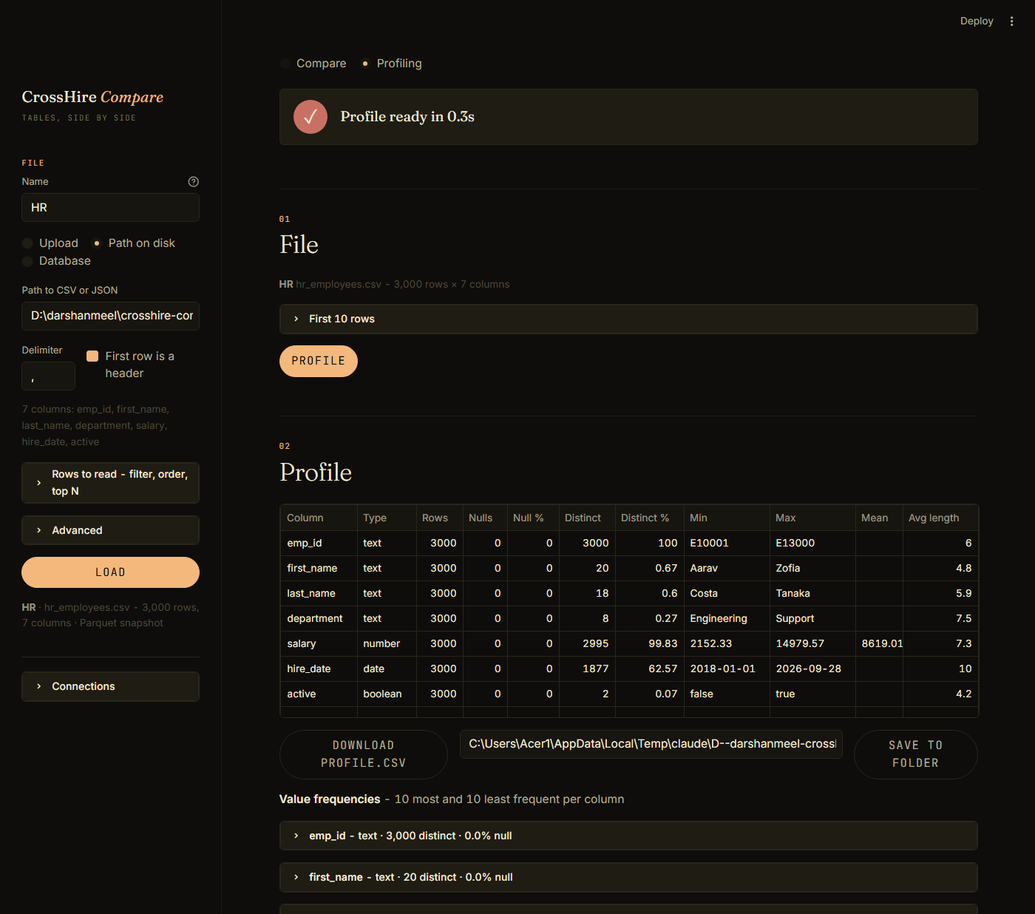
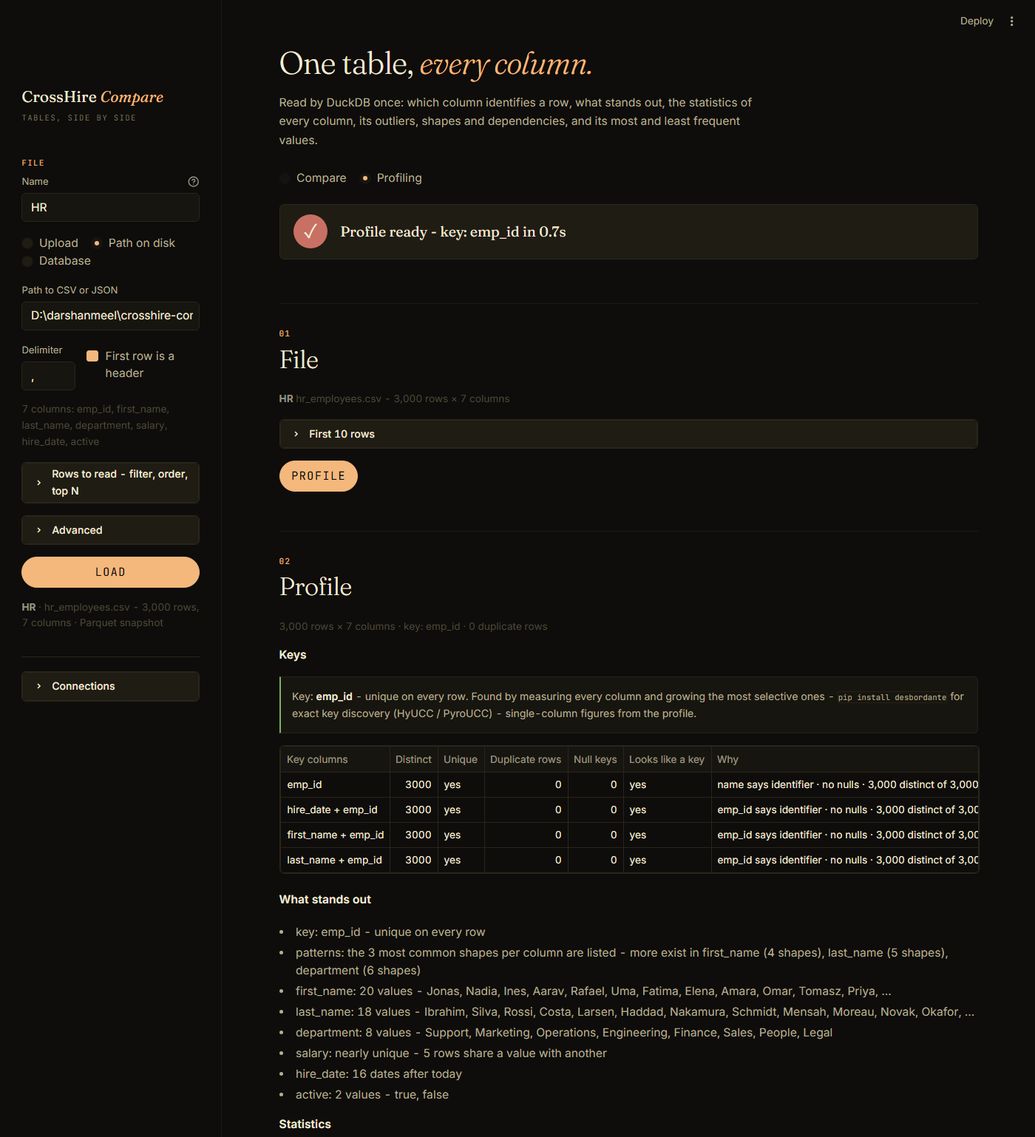
Profiling follow-ups: new screenshot, README.html in step, hero lede, the pair warning from MAX_KEY_COLS, a dead test guard
docs/app-profiling.png shows the page as it now is - the done disc naming the key, the
headline, Keys and What stands out. README.html's Profiling section carries what README.md
says, plus the pair profile's columns, the file tree and the test count. The Profiling
page's lede names what the page now does. The Compare page's key warning is built from
keys.MAX_KEY_COLS like the Profiling page's, and test_reasons_and_overlap asserts the
measure-column wording on a pair where it actually occurs.

diff --git a/README.html b/README.html
@@ -269,7 +269,7 @@ COMPARE_CONN_SAMPLE=duckdb:///C:/data/sample.duckdb</code></pre>
   <div class="sec-head"><div class="sec-num">07</div><div><h2 class="sec-h">Rows.</h2><div class="sec-sub">filters on the common names · profile on demand</div></div></div>
   <div class="body">
     <p><strong>Filters</strong> apply to both sides, or one, after types: <code>=</code> <code>!=</code> <code>&gt;</code> <code>&gt;=</code> <code>&lt;</code> <code>&lt;=</code> <code>in</code> <code>not in</code> <code>between</code> <code>like</code> <code>is null</code> <code>is not null</code>, each with a Type of <code>auto</code>, <code>string</code>, <code>number</code> or <code>date</code>. Values are matched exactly - the <em>Ignore case</em> switch does not apply to filters - but they are spelled the way the column is before the engine sees them: on a boolean column <code>True</code>, <code>t</code>, <code>yes</code>, <code>y</code> and <code>1</code> mean <code>true</code> (and their opposites <code>false</code>), in lists and ranges too; on a date or timestamp column a value becomes the ISO text the column holds, read with the format the column's own <em>to date</em> or <em>to timestamp</em> step names on the side the filter applies to, else in any of the usual spellings (<code>05/01/2024</code> is <code>2024-05-01</code> on a column read with <code>%m/%d/%Y</code> and <code>2024-01-05</code> without a format; a value the two sides' formats read as different days is refused and asked for in ISO; the time of day is kept on a timestamp column); on a number column the value compares as a number - <code>10 &gt; 9</code>, also when the column is the key and never compared, or when rows pair by hashing - and a value that is not a date, or not a number, is refused in a sentence - <em>filter on 'hire_date': 'not-a-date' is not a date</em> - shown once above the result, whether or not Compare was pressed. <code>between</code> takes two values, comma separated. To shrink a big file before it is even read, use <em>Rows to read</em> under that file in the sidebar instead.</p>
-    <p><strong>Profile both files</strong> runs only when pressed: per column per side, null %, distinct count, min, max, mean, average length - side by side with the gap - and the 10 most and 10 least frequent values, on the same typed values the comparison uses. It runs in the red disc (<em>Profiling…</em>, then <em>Profile ready in 1.2s</em>) and lands in the Log. A profile also feeds <strong>Suggest keys</strong> and Auto, goes into the run folder as <code>profile.csv</code>, and is dropped when the column table or the reads change; the one Auto takes with <em>Profile both sides first</em> shows here too, without the press. To profile one table with no second side, use the Profiling page - section 12.</p>
+    <p><strong>Profile both files</strong> runs only when pressed: per column, a <em>Both sides</em> sheet with the null %, distinct count, min and max of each file and the null % gap, then each file's own statistics table - the same columns the Profiling page's Statistics has (section 12) - and the 10 most and 10 least frequent values, on the same typed values the comparison uses. It runs in the red disc (<em>Profiling…</em>, then <em>Profile ready in 1.2s</em>) and lands in the Log. A profile also feeds <strong>Suggest keys</strong> and Auto, goes into the run folder as <code>profile.csv</code>, and is dropped when the column table or the reads change; the one Auto takes with <em>Profile both sides first</em> shows here too, without the press. To profile one table with no second side, use the Profiling page - section 12.</p>
   </div>
 </section>
 
@@ -320,7 +320,7 @@ COMPARE_CONN_SAMPLE=duckdb:///C:/data/sample.duckdb</code></pre>
 <b>HR_compare_Payroll__right_only.csv</b>   <i>· rows found only in Right, the same way</i><br>
 <b>HR_compare_Payroll__paired.csv</b>       <i>· every paired row on one line: the key columns, then a_&lt;column&gt;, b_&lt;column&gt; for each compared column, in file order - a header only in hash mode</i><br>
 <b>HR_compare_Payroll__columns.csv</b>      <i>· the column sheet: column, name_a, name_b, role, read_as, matched_by, matched, mismatched, match_pct, values_only_a, values_only_b - matched_by is how the pair was made (name, similar name, guess - check, data, you, file), blank on a one-sided column</i><br>
-<b>HR_compare_Payroll__profile.csv</b>      <i>· when a profile ran: column, side, rows, nulls, null_pct, distinct, distinct_pct, min, max, mean, avg_length</i><br>
+<b>HR_compare_Payroll__profile.csv</b>      <i>· when a profile ran: column, side, rows, nulls, null_pct, distinct, distinct_pct (of the filled rows), distinct_pct_rows (of all rows), top_value, top_pct, min, max, mean, avg_length, min_length, max_length</i><br>
 <b>HR_compare_Payroll__summary.csv</b>      <i>· one row: schema_version, run_id, started_at, pair, left, right, mode, keys, rows_left_read, rows_right_read, rows_left, rows_right, matched_rows, only_left, only_right, diff_rows, cell_diffs, duplicate_keys_left, duplicate_keys_right, status, tone, seconds, error - lists joined with |</i><br>
 <b>HR_compare_Payroll__summary.json</b>     <i>· the whole run for a script: app, engine, duckdb_version, run_id, started_at, seconds, pair, sources (per side: name, kind, database, connection name, origin, path, sql, fetched_at, cap, rows, cut, columns - never a URI or a password), settings (mode, keys, compare_columns, the specs with their steps and case, column_rules, filters, trim, tolerance, null_tokens...), result, verdict, notes (Auto's decisions) and files (every file above with its format, rows and bytes)</i></div>
     <p>In key and position mode every file is present after every run - an empty table is written with its header - so a script can rely on the set; <code>summary.csv</code> and <code>summary.json</code> carry <code>schema_version</code> 1. Read <code>columns.csv</code> by header, not by position: <code>matched_by</code> was inserted after <code>read_as</code>. In hash mode the engine does not run, so there is no <code>cell_diffs</code> file and no engine report - rows either match whole or land in <code>left_only</code> / <code>right_only</code>, which carry every column, and <code>paired.csv</code> is a header only. The engine's CSVs are complete; only the tables on screen and in the report are capped by <em>Rows to display</em>.</p>
@@ -349,15 +349,72 @@ COMPARE_CONN_SAMPLE=duckdb:///C:/data/sample.duckdb</code></pre>
 </section>
 
 <section class="sec" id="profiling">
-  <div class="sec-head"><div class="sec-num">12</div><div><h2 class="sec-h">Profiling: <em>one table.</em></h2><div class="sec-sub">the second page · one source · statistics and value frequencies per column</div></div></div>
+  <div class="sec-head"><div class="sec-num">12</div><div><h2 class="sec-h">Profiling: <em>one table.</em></h2><div class="sec-sub">the second page · one source · keys, what stands out, statistics, outliers, patterns, dependencies, frequencies</div></div></div>
   <div class="body">
-    <p>The <strong>Compare</strong> | <strong>Profiling</strong> switch under the headline picks the page. Profiling takes one table on its own - the headline reads <em>One table, every column.</em> - and measures it the way the Profile section under Rows measures a pair. The sidebar holds a single <strong>File</strong> panel, the same panel File A has: a <strong>Name</strong> (<em>Table</em> by default - it names the profile file, and a database table left at the default takes its connection's name), the <strong>Upload</strong> / <strong>Path on disk</strong> / <strong>Database</strong> radio, the delimiter and header tick, <em>Rows to read</em>, <em>Advanced</em>, <strong>Load</strong>; for a database the same Connection, Table or SQL query, cap and <strong>Fetch</strong>, with the Connections manager under it. Load, then press <strong>Profile</strong>.</p>
-    <p>What the values look like decides the types - there is no column table here to take a suggestion in - so a text column of <code>12,686.95</code> profiles as a number, <code>06-Nov-2019</code> as a date with its format, <code>Y</code>/<code>N</code> as a boolean; a column DuckDB typed keeps that type. The run shows in the red disc under the switch (<em>Profiling…</em>, then <em>Profile ready in 0.3s</em>) and lands in the Log like any other. Then:</p>
-    <div class="grid">
-      <div class="cell"><div class="k">File</div><div class="v">The name, the file, rows × columns and the cut, with <em>First 10 rows</em> folded under it.</div></div>
-      <div class="cell"><div class="k">Profile</div><div class="v">The statistics table, one row per column: Column, Type, Rows, Nulls, Null %, Distinct, Distinct %, Min, Max, Mean, Avg length. <strong>Download profile.csv</strong> hands it out through the browser as <code>&lt;Table&gt;__profile.csv</code>; <strong>Save to folder</strong> writes it to the folder in the box beside it - <code>&lt;COMPARE_OUT_DIR&gt;/&lt;Table&gt;__&lt;run_id&gt;</code> when the variable is set (and then the save must stay under it), else a folder of that name next to the file, or under your Downloads folder - the same rule as the Compare page's saves.</div></div>
-      <div class="cell"><div class="k">Value frequencies</div><div class="v">One fold per column, labelled <em>emp_id - text · 3,000 distinct · 0.0% null</em>, with the 10 most and the 10 least frequent values side by side.</div></div>
-    </div>
+    <p>The <strong>Compare</strong> | <strong>Profiling</strong> switch under the headline picks the page. Profiling takes one table on its own - the headline reads <em>One table, every column.</em> - and says what a person opening an unfamiliar table wants to know first: which column identifies a row, what stands out, the statistics of every column, where the numbers and dates run wild, what shape the text takes, which columns determine which, and the most and least frequent values. The sidebar holds a single <strong>File</strong> panel, the same panel File A has: a <strong>Name</strong> (<em>Table</em> by default - it names the saved files, and a database table left at the default takes its connection's name), the <strong>Upload</strong> / <strong>Path on disk</strong> / <strong>Database</strong> radio, the delimiter and header tick, <em>Rows to read</em>, <em>Advanced</em>, <strong>Load</strong>; for a database the same Connection, Table or SQL query, cap and <strong>Fetch</strong>, with the Connections manager under it. Load, then press <strong>Profile</strong>.</p>
+    <p>What the values look like decides the types - there is no column table here to take a suggestion in - so a text column of <code>12,686.95</code> profiles as a number, <code>06-Nov-2019</code> as a date with its format, <code>Y</code>/<code>N</code> as a boolean; a column DuckDB typed keeps that type. The table is read into DuckDB once and every measure below runs on that one read; only the checks for stray spaces, case variants and leading zeros go back to the file, because they need the value as written. The run shows in the red disc under the switch - <em>Profiling…</em>, then <em>Looking for keys…</em> and <em>What stands out…</em> on the way, ending on <em>Profile ready - key: emp_id in 0.4s</em> (or <em>Profile ready - no key in 0.4s</em>) - and lands in the Log as two entries: the run with its steps, and <em>Profile notes</em> - <em>8 things stand out</em> - with one line per note, the way Auto's decisions are logged. The page then reads, top to bottom: <strong>File</strong>, <strong>Profile</strong> with its headline, <strong>Keys</strong>, <strong>What stands out</strong>, <strong>Statistics</strong> with the download and save row, the <strong>Outliers</strong>, <strong>Patterns</strong> and <strong>Dependencies</strong> folds, then <strong>Value frequencies</strong>.</p>
+    <p><strong>File</strong> - the name, the file, rows × columns and the cut, with <em>First 10 rows</em> folded under it.</p>
+    <p><strong>Profile</strong> - one line under the heading: <code>3,000 rows × 7 columns · key: emp_id · 0 duplicate rows</code>. The rows and columns, the key (or <em>no key up to 4 columns</em>), the exact duplicate rows - always said, even at 0 - and then only what is there: <em>1 empty column</em>, <em>1 constant column</em>, <em>2 columns with outliers</em>.</p>
+    <p><strong>Keys</strong> - a green line when the best candidate is unique on every row: <em>Key: emp_id - unique on every row. Found by measuring every column and growing the most selective ones - <code>pip install desbordante</code> for exact key discovery (HyUCC / PyroUCC) - single-column figures from the profile.</em> Otherwise a warning, <em>Nothing up to 4 columns is unique - the closest are below.</em>, with the same note after it. The candidate table sits under it. This is the Compare page's <strong>Suggest keys</strong> on one table: every column unique by itself, then combinations of up to four columns grown from the most selective ones - with Desbordante when it is installed (HyUCC on the first 200,000 rows, verified on every row; PyroUCC's almost-unique combinations when nothing is exact). The distinct and null counts of the single columns come from the statistics just measured, so nothing is counted twice - that is what the note's last words say - and a column with one value is never a candidate. There is no other side, so no Overlap %; candidates rank by unique first, then whether they only add columns to a key that already works, then how much the names look like a key, then fewer columns. The columns:</p>
+    <table>
+      <tr><th>Column</th><th>What it is</th></tr>
+      <tr><td>Key columns</td><td>The column, or the combination joined with <code>+</code>.</td></tr>
+      <tr><td>Distinct</td><td>The distinct values of the combination among the rows that have a full key.</td></tr>
+      <tr><td>Unique</td><td><code>yes</code> when Duplicate rows and Null keys are both 0.</td></tr>
+      <tr><td>Duplicate rows</td><td>Rows minus null keys minus distinct: the rows that share their key with another.</td></tr>
+      <tr><td>Null keys</td><td>Rows where any key column is null; they identify nothing.</td></tr>
+      <tr><td>Looks like a key</td><td><code>yes</code> when the names and detected types read as identifiers, <code>measure columns</code> when one of them is a measure - an amount, a rate, a decimal.</td></tr>
+      <tr><td>Why</td><td>The reasons in one line, as on the Compare page but naming no side. <code>emp_id</code>: <em>name says identifier · no nulls · 3,000 distinct of 3,000 · unique by itself</em>. <code>hire_date + emp_id</code>, ranked under it: <em>emp_id says identifier · no nulls · 3,000 distinct of 3,000 · adds nothing - emp_id is already unique · grown from the most selective column</em>. A combination a null spoils - <code>manager_id + id</code> on the directory JSON: <em>manager_id, id say identifier · 277 nulls · 2,713 distinct of 2,990 · adds nothing - id is already unique · grown from the most selective column</em> - the 277 rows with no manager_id have no key, so they are neither distinct nor duplicates. A column no other column improves on stands alone: <em>on its own - adding a column told no more rows apart</em>.</td></tr>
+    </table>
+    <p><strong>What stands out</strong> - one line per thing, as a list: the table-level lines first, then column by column in the table's order. When there is nothing, <em>Nothing stands out - no nulls, no duplicates, no constant columns, no outliers.</em> On <code>hr_employees.csv</code>:</p>
+<pre><code>key: emp_id - unique on every row
+patterns: the 3 most common shapes per column are listed - more exist in first_name (4 shapes), last_name (5 shapes), department (6 shapes)
+first_name: 20 values - Jonas, Nadia, Ines, Aarav, Rafael, Uma, Fatima, Elena, Amara, Omar, Tomasz, Priya, …
+last_name: 18 values - Ibrahim, Silva, Rossi, Costa, Larsen, Haddad, Nakamura, Schmidt, Mensah, Moreau, Novak, Okafor, …
+department: 8 values - Support, Marketing, Operations, Engineering, Finance, Sales, People, Legal
+salary: nearly unique - 5 rows share a value with another
+hire_date: 16 dates after today
+active: 2 values - true, false</code></pre>
+    <p>(The sample's hire dates run to 2026-09-28, so how many fall after today depends on the day you run it.) Every kind of line, in the order they come - a line marked with a sample file is that file's own, the others show the form:</p>
+    <table>
+      <tr><th>Line</th><th>When it appears</th></tr>
+      <tr><td style="white-space:normal"><code>12 exact duplicate rows - the same values in every column</code></td><td>Rows that repeat another one in every column, a null equal to a null.</td></tr>
+      <tr><td style="white-space:normal"><code>key: emp_id - unique on every row</code> (HR), or <code>no single column or combination up to 4 is unique - closest: first_name + last_name (2,998 distinct of 3,000)</code></td><td>The best candidate from Keys, measured again on the table.</td></tr>
+      <tr><td style="white-space:normal"><code>Dept → CostCenter: every Dept has one CostCenter</code> (Payroll), <code>cust_id ↔ cust_email: one-to-one</code></td><td>One line per row of the Dependencies fold, the first 10, then <code>… and n more in Dependencies</code>.</td></tr>
+      <tr><td style="white-space:normal"><code>tenure_years ~ leave_days: correlated, r = 0.93</code></td><td>One line per correlated pair, the first 5, then <code>… and n more</code>.</td></tr>
+      <tr><td style="white-space:normal"><code>patterns: the 3 most common shapes per column are listed - more exist in first_name (4 shapes), …</code> (HR)</td><td>A text column has more shapes than the Patterns fold shows. A line of the same kind says when the dependency search or the correlations were capped.</td></tr>
+      <tr><td style="white-space:normal"><code>notes: empty - null on every row</code></td><td>Null on every row; nothing else is said about the column.</td></tr>
+      <tr><td style="white-space:normal"><code>company: constant - one value on every row (ACME)</code></td><td>One distinct value.</td></tr>
+      <tr><td style="white-space:normal"><code>manager_id: null on 9.3% of rows</code> (Directory)</td><td>Null on 5% of rows or more - or on any row at all when the name says identifier: <code>id</code>, <code>key</code>, <code>code</code>, <code>ref</code>, <code>no</code>, <code>num</code>, <code>account</code> and the like.</td></tr>
+      <tr><td style="white-space:normal"><code>salary: nearly unique - 5 rows share a value with another</code> (HR)</td><td>The distinct values are 99% or more of the filled rows, but not all of them.</td></tr>
+      <tr><td style="white-space:normal"><code>manager_id: says identifier but 2,653 rows share a value</code> (Directory)</td><td>The name says identifier and the values do not: neither unique nor nearly so.</td></tr>
+      <tr><td style="white-space:normal"><code>department: 8 values - Support, Marketing, Operations, Engineering, Finance, Sales, People, Legal</code> (HR)</td><td>Between 2 and 20 distinct values, covering at most half the rows - a category. The values by count, the first 12, then <code>…</code>.</td></tr>
+      <tr><td style="white-space:normal"><code>status: active on 97.3% of rows</code></td><td>One value on 95% of rows or more, and it is not the only value.</td></tr>
+      <tr><td style="white-space:normal"><code>Salary: read as a number - 12,686.95 has thousands separators</code> (Payroll), <code>hire_date: read as a date - 06-Nov-2019 → %d-%b-%Y</code> (Directory), <code>IsActive: read as a boolean - Y/N</code> (Payroll)</td><td>What the <em>looks like</em> sniff decided for a text column, in its own words - what the column was read as.</td></tr>
+      <tr><td style="white-space:normal"><code>zip: reads as a number but 120 values have leading zeros - keep it as text</code></td><td>A column read as a number whose values in the file start with a zero - a code, not an amount.</td></tr>
+      <tr><td style="white-space:normal"><code>city: 5 values differ only in case - Paris / paris / PARIS</code></td><td>The same value in more than one case in the file; one example group of up to three spellings.</td></tr>
+      <tr><td style="white-space:normal"><code>dept: 123 values have leading or trailing spaces - trimmed before measuring</code> (Directory)</td><td>Values in the file with a space at either end; the tail is there when <em>Trim whitespace</em> is on.</td></tr>
+      <tr><td style="white-space:normal"><code>salary: 2 outliers - above 21,489.10 (1.5 × IQR) · highest 1,000,000</code></td><td>Values outside Tukey's fences (see Outliers below), with the fence and the extreme on each side that is crossed; a side nothing crosses is left out.</td></tr>
+      <tr><td style="white-space:normal"><code>salary: 3 negative values · 40 zeros</code></td><td>Either count above zero, on a number column.</td></tr>
+      <tr><td style="white-space:normal"><code>ratio: 2 values are NaN, infinite or beyond 1e150 - left out of the outliers</code>, <code>valid_to: 30 values are infinite - left out of the outliers</code></td><td>Values no percentile, standard deviation or correlation can hold - <code>NaN</code>, <code>inf</code>, a number so large its square overflows, a date written <code>infinity</code> - are values to the reader and nulls to the Outliers fold, and this line says how many.</td></tr>
+      <tr><td style="white-space:normal"><code>hire_date: 16 dates after today</code> (HR), <code>birth_date: 3 dates before 1900</code></td><td>Either count above zero, on a date or timestamp column.</td></tr>
+      <tr><td style="white-space:normal"><code>emp_id: 99.7% of values are A9999 - 3 are not (e1234, E12, 12E4)</code></td><td>One shape covers 90% or more of a text column's values but not all of them; up to three of the others, then <code>…</code> when there are more.</td></tr>
+    </table>
+    <p><strong>Statistics</strong> - the statistics table, one row per column: Column, Type, Rows, Nulls, Null %, Distinct, <strong>Distinct % of filled</strong> (distinct ÷ the non-null rows) and <strong>Distinct % of rows</strong> (distinct ÷ all rows - the two differ only where there are nulls: <code>manager_id</code> in the directory JSON is 2.21% of filled and 2.01% of rows), <strong>Top value</strong> and <strong>Top %</strong> (the most frequent value and its share of all rows, a null counting as a value and shown as <code>∅ null</code> - <code>department</code> has <code>Support</code> on 13.73%), Min, Max, Mean (numbers only), Avg length, <strong>Min length</strong> and <strong>Max length</strong> (of the text as read; blank on a column with nothing filled). <strong>Download profile.csv</strong> hands the table out through the browser as <code>&lt;Table&gt;__profile.csv</code>; <strong>Save to folder</strong> writes six files to the folder in the box beside it - <code>&lt;COMPARE_OUT_DIR&gt;/&lt;Table&gt;__&lt;run_id&gt;</code> when the variable is set (and then the save must stay under it), else a folder of that name next to the file, or under your Downloads folder - the same rule as the Compare page's saves:</p>
+<pre><code>Table__profile.csv        the statistics table, the columns above
+Table__keys.csv           the candidate table: Key columns, Distinct, Unique, Duplicate rows, Null keys,
+                          Looks like a key, Why
+Table__notes.txt          the headline, a blank line, then one note per line
+Table__outliers.csv       the Outliers fold: Column, Type, P1, P5, P25, Median, P75, P95, P99, Std dev,
+                          Low fence, High fence, Outliers, Outlier %, Lowest, Highest, Zeros, Negatives
+Table__patterns.csv       the Patterns fold: Column, Pattern, Collapsed, Count, %, Example
+Table__dependencies.csv   the dependencies and the correlated pairs on one sheet: Column A, Column B,
+                          Kind (many-to-one, one-to-one, correlated), Distinct, r</code></pre>
+    <p>A fold with nothing in it writes a file with the header alone, so a script can rely on the set.</p>
+    <p><strong>Outliers</strong> - folded: one row per number, date and timestamp column. The percentiles P1, P5, P25, Median, P75, P95, P99 and the standard deviation - <code>salary</code>: <code>5384.155</code>, <code>8672.865</code> and <code>11826.135</code> for P25, the median and P75, std dev <code>3714.9289</code> - then Tukey's fences, P25 − 1.5 × IQR and P75 + 1.5 × IQR with the IQR being P75 − P25 (<code>-4278.815</code> and <code>21489.105</code>), Outliers and Outlier % for the values outside them (none in the sample), Lowest and Highest (<code>2152.33</code>, <code>14979.57</code>), Zeros and Negatives. A date column takes the same percentiles on the dates - <code>hire_date</code>: median <code>2022-06-27</code>, fences <code>2013-06-08</code> and <code>2031-07-25</code> - with Std dev, Zeros and Negatives left blank; its dates after today and before 1900 go to What stands out only.</p>
+    <p><strong>Patterns</strong> - folded: the three most common shapes of each text column, each with its Count, its % of the non-null values and the first value of that shape in the file. A shape turns every letter into <code>A</code> and every digit into <code>9</code> and keeps the rest as written - <code>E10001</code> is <code>A99999</code>, <code>2026-01-12</code> is <code>9999-99-99</code>, <code>Finance &amp; Control</code> is <code>AAAAAAA &amp; AAAAAAA</code> - and Collapsed folds the runs, <code>A+9+</code>, <code>9+-9+-9+</code>, <code>A+ &amp; A+</code>, so <code>CC-220</code> and <code>CC-1100</code> read as one. On the sample <code>emp_id</code> is <code>A99999</code> on all 3,000 rows; <code>first_name</code> is <code>AAAAA</code> on 1,243 (41.43%), <code>AAAA</code> on 999 and <code>AAAAAA</code> on 596, and the note above says a fourth shape exists.</p>
+    <p><strong>Dependencies</strong> - folded, two tables. First the functional dependencies: X → Y when every value of X goes with one value of Y, found by counting - X determines Y when X alone and X with Y have the same number of distinct values, a null counting as a value. The columns are Determines, Determined, Kind (<code>many-to-one</code>, or <code>one-to-one</code> when it holds the other way round too - listed once, the column that comes first in the table first) and Distinct, the values of X. Tried as X: every column that is neither unique, nor nearly unique (99% of the filled rows), nor constant - those determine everything and say nothing - the fewest values first, at most 40; any other non-constant column can be Y. Payroll's <code>Dept → CostCenter</code> is one, many-to-one with 11 distinct values. Then the correlated number columns: Pearson's r for every pair of the first 30 number columns, keeping the pairs with |r| ≥ 0.7, the strongest first - Column A, Column B, r. Where either cap cut columns, What stands out says so.</p>
+    <p><strong>Value frequencies</strong> - one fold per column, labelled <em>emp_id - text · 3,000 distinct · 0.0% null</em>, with the 10 most and the 10 least frequent values side by side.</p>
     <p>The profile goes when another table is loaded; measured under other null tokens or another <em>Trim whitespace</em> setting than the page's (both set under <em>How values are read</em> on the Compare page, and they apply here too), it says so (<em>This profile is from earlier settings - run it again to refresh</em>). Compare is untouched: switch back and the sides, the column table, the result and the Log are where they were.</p>
   </div>
 </section>
@@ -433,14 +490,16 @@ docker run --rm -p 8501:8501 -v ./data:/data:ro -v ./out:/out --env-file .env cr
    values.py       <i>· transform steps, null folding, types, canonical text, registration, type check</i><br>
    sniff.py        <i>· what a text column's values look like - the looks-like suggestions</i><br>
    columns.py      <i>· the column table: pairing, normalisation, specs, roles and chips, mapping JSON, match by data</i><br>
-   keys.py         <i>· key uniqueness, overlap, reasons, Desbordante / DuckDB suggestion</i><br>
+   keys.py         <i>· key uniqueness, overlap, reasons, Desbordante / DuckDB suggestion - for a pair or one table</i><br>
    profile.py      <i>· statistics and value frequencies, of a pair or of one table; what the key search reads from them</i><br>
+   observe.py      <i>· what stands out in one table: duplicates, the key, dependencies, correlations, outliers, patterns, the notes</i><br>
    compare.py      <i>· running a comparison (engine, position, hash), filters, and reading it back</i><br>
    outputs.py      <i>· the run folder: pair name, verdict, summary / columns / profile writers, Parquet copies, zip, saves, sweep</i><br>
    report.py       <i>· the HTML report</i><br>
    auto.py         <i>· two sides in, the rest worked out</i><br>
-   ui_sidebar.py · ui_database.py · ui_columns.py · ui_transform.py · ui_keys.py · ui_results.py · ui_profile.py  <i>· the screens</i><br>
-   ui_log.py       <i>· the run disc and the Log panel - every long run reports to one place</i></div>
+   ui_sidebar.py · ui_database.py · ui_columns.py · ui_transform.py · ui_keys.py · ui_results.py  <i>· the screens</i><br>
+   ui_log.py       <i>· the run disc and the Log panel - every long run reports to one place</i><br>
+   ui_profile.py   <i>· the Profiling page: one table - keys, what stands out, statistics, outliers, patterns, dependencies, frequencies</i></div>
     <p style="margin-top:22px">The engine is a black box to the app: it receives two DuckDB tables named <code>src_a</code> and <code>src_b</code> with the common column names and canonical values already applied, and the app reads back its counts and its CSV outputs. Only the <code>ui_*.py</code> modules, <code>compare_app.py</code> and <code>state.py</code> touch Streamlit; everything else is plain Python over DuckDB and pandas, which is what makes the headless tests possible. <code>csvdiff.py</code> also runs on its own from the command line - <code>python csvdiff.py file a.csv b.csv --keys id --out out/</code> - with <code>key</code>, <code>row_number</code>, <code>multiset</code> and <code>auto</code> matching; exit codes 0 = identical, 1 = differences found, 2 = error.</p>
   </div>
 </section>
@@ -450,7 +509,7 @@ docker run --rm -p 8501:8501 -v ./data:/data:ro -v ./out:/out --env-file .env cr
   <div class="body">
     <div class="run">
       <div class="row"><div class="k">01</div><div><div class="t">python -m py_compile compare_app.py tablecmp/*.py</div><div class="d">Everything must compile.</div></div></div>
-      <div class="row"><div class="k">02</div><div><div class="t">python -m pytest tests -q</div><div class="d">The suite (181 tests, about two minutes): units for every module - the start-up settings, connections and URIs, the dialects and the read-only guard, the read-only switches passed to a stub driver, the fetch against a fake cursor and DuckDB end to end, the column table with its roles and chips, the looks-like sniff, keys and reasons, the profile of one table, the outputs and the sweep, the report, the run disc and the Log - and the whole app headless through Streamlit's <code>AppTest</code>: the file flow and the database flow on the sample pair, asserting the counts in <code>docs/superpowers/plans/COUNTS.md</code> and grepping every output for the fake password, the Summary tab's Key block, and the Profiling page from a file and from the sample database. The database tests set <code>COMPARE_CONNECTIONS</code> to a temp file, so your own connections are never read or written.</div></div></div>
+      <div class="row"><div class="k">02</div><div><div class="t">python -m pytest tests -q</div><div class="d">The suite (223 tests, about two minutes): units for every module - the start-up settings, connections and URIs, the dialects and the read-only guard, the read-only switches passed to a stub driver, the fetch against a fake cursor and DuckDB end to end, the column table with its roles and chips, the looks-like sniff, keys and reasons for a pair and for one table, the profile of one table and what stands out in it, the outputs and the sweep, the report, the run disc and the Log - and the whole app headless through Streamlit's <code>AppTest</code>: the file flow and the database flow on the sample pair, asserting the counts in <code>docs/superpowers/plans/COUNTS.md</code> and grepping every output for the fake password, the Summary tab's Key block, and the Profiling page from a file and from the sample database. The database tests set <code>COMPARE_CONNECTIONS</code> to a temp file, so your own connections are never read or written.</div></div></div>
       <div class="row"><div class="k">03</div><div><div class="t">Drive it yourself</div><div class="d">Re-fetch widgets after every <code>at.run()</code>; elements go stale, and <code>at.session_state</code> has no <code>.get</code>. The column table is a data editor and cannot be edited headlessly - set <code>at.session_state["cmap"]</code> through <code>tablecmp.columns.apply_mapping_json</code> (or <code>set_steps</code>) and bump <code>at.session_state["map_rev"]</code>. Widget keys: <code>page</code> (the Compare | Profiling radio), <code>nick_A</code> / <code>nick_B</code>, <code>how_A</code> / <code>how_B</code>, <code>pt_A</code> / <code>pt_B</code>, <code>load_A</code> / <code>load_B</code>, <code>auto_btn</code>, <code>auto_profile</code>, <code>go</code> (Compare), <code>disp_rows</code>, <code>auto_rerun</code>, <code>opt_tol</code>, <code>sugg_btn</code>, <code>check_btn</code>, <code>do_profile</code>, <code>bucket_pick</code>, <code>out_fmt</code>, <code>save_report</code>, <code>save_all</code>, <code>log_clear</code>; for a database side <code>conn_A</code> / <code>conn_B</code>, <code>dbmode_A</code> / <code>dbmode_B</code>, <code>tbl_A</code> / <code>tbl_B</code>, <code>sql_A</code> / <code>sql_B</code>, <code>cap_A</code> / <code>cap_B</code>, <code>fetch_A</code> / <code>fetch_B</code>, <code>refetch_A</code> / <code>refetch_B</code>, <code>pw_A</code> / <code>pw_B</code>, <code>same_as_A</code>; on the Profiling page the same panel keys with <code>_P</code> (<code>nick_P</code>, <code>how_P</code>, <code>pt_P</code>, <code>load_P</code>, <code>conn_P</code>, <code>fetch_P</code>, ...) and <code>do_profile_P</code>, <code>dl_profile_P</code>, <code>save_profile_P</code>; in the manager <code>conn_pick</code>, <code>cf_kind</code>, <code>cf_name</code>, <code>cf_&lt;field&gt;</code>, <code>cf_save_pw</code>, <code>cf_timeout</code>, <code>test_conn</code>, <code>conn_save</code>, <code>conn_delete</code>. The Log is <code>at.session_state["log"]</code>, a list of entries with <code>at</code>, <code>kind</code>, <code>label</code>, <code>state</code>, <code>seconds</code> and <code>lines</code>, newest last; the last run's disc is the markdown with <code>class="runbox done"</code>. Download buttons are not in <code>at.button</code> - read them with <code>at.main.get("download_button")</code>. Set <code>COMPARE_THEME=violet</code> to cover the second palette; set <code>COMPARE_CONN_SAMPLE=duckdb:///examples/sample.duckdb</code> and pick <em>Database</em> to cover the database route.</div></div></div>
       <div class="row"><div class="k">04</div><div><div class="t">Look at it</div><div class="d"><code>streamlit run compare_app.py --server.headless true</code> and a Playwright screenshot, or the app in a browser. Streamlit does not hot-reload <code>tablecmp/</code>, so restart after editing it. <code>examples/make_sample.py</code> regenerates the sample data (seed 7) when the samples need to change - and then the counts in <code>COUNTS.md</code> and here do too.</div></div></div>
     </div>

diff --git a/tests/test_keys.py b/tests/test_keys.py
@@ -59,7 +59,7 @@ def _csv_single(tmp_path, header, rows):
     return P
 
 
-def test_reasons_and_overlap():
+def test_reasons_and_overlap(tmp_path):
     A, B, specs = _sides()
     table, combos, note = suggest_keys(A, B, specs, "hr", "payroll", OPTS)
     assert combos[0] == ["emp_id"]
@@ -67,9 +67,17 @@ def test_reasons_and_overlap():
     assert top["Unique on both"] == "yes" and 95 < top["Overlap %"] < 100
     assert "identifier" in top["Why"] and "no nulls" in top["Why"]
     assert "hr" in top["Why"] and "payroll" in top["Why"]
-    sal = table[table["Key columns"].str.contains("salary")]
-    if len(sal):
-        assert "measure" in sal.iloc[0]["Why"]
+    # a pair whose only unique combination holds a measure column: it is offered, and
+    # the row says the measure is no key even so (the one-table search does the same)
+    rows = [[i % 5, (i // 5) * 10.5] for i in range(25)]
+    MA, MB = _csv_sides(tmp_path, ["dept", "amount"], rows, rows)
+    mspecs = [ColSpec(canon="dept", a_src="dept", b_src="dept", kind="text"),
+              ColSpec(canon="amount", a_src="amount", b_src="amount", kind="number")]
+    mtable, mcombos, _ = suggest_keys(MA, MB, mspecs, "a", "b", OPTS)
+    assert mcombos[0] == ["dept", "amount"]
+    row = mtable.iloc[0]
+    assert row["Unique on both"] == "yes" and row["Looks like a key"] == "measure columns"
+    assert row["Why"].startswith("amount: a measure, decimal - never a key") and "measure" in row["Why"]
 
 
 def test_superset_of_a_unique_key_ranks_below_it():

diff --git a/tablecmp/ui_keys.py b/tablecmp/ui_keys.py
@@ -5,7 +5,7 @@ import duckdb
 import streamlit as st
 
 from . import ui_log
-from .keys import key_uniqueness, suggest_keys
+from .keys import MAX_KEY_COLS, key_uniqueness, suggest_keys
 from .sources import Side
 from .state import bump, forget_results
 from .ui_columns import Setup
@@ -61,8 +61,8 @@ def render(A: Side, B: Side, NA: str, NB: str, setup: Setup, opts: ReadOptions,
             st.success(f"{len(good)} combination(s) identify a single row on both sides - "
                        f"best: **{good.iloc[0]['Key columns']}**. {note}.")
         else:
-            st.warning("Nothing up to four columns was unique on both sides - the closest "
-                       f"are below. {note}.")
+            st.warning(f"Nothing up to {MAX_KEY_COLS} columns was unique on both sides - "
+                       f"the closest are below. {note}.")
         s1, s2 = st.columns([3, 1])
         s1.dataframe(table, width="stretch", hide_index=True)
         with s2:

diff --git a/compare_app.py b/compare_app.py
@@ -128,8 +128,9 @@ def hero(page: str) -> None:
     if page == "Profiling":
         st.markdown(f'<div class="eyebrow">{APP_NAME} · <span>CSV, JSON or a database table</span></div>'
                     '<h1 class="hero-h">One table, <em>every column.</em></h1>'
-                    '<p class="lede">Read by DuckDB, measured column by column: the statistics of each, '
-                    'and its most and least frequent values.</p>', unsafe_allow_html=True)
+                    '<p class="lede">Read by DuckDB once: which column identifies a row, what stands out, '
+                    'the statistics of every column, its outliers, shapes and dependencies, and its most '
+                    'and least frequent values.</p>', unsafe_allow_html=True)
     else:
         st.markdown(f'<div class="eyebrow">{APP_NAME} · <span>CSV or JSON, either side</span></div>'
                     '<h1 class="hero-h">Two tables, <em>every difference.</em></h1>'

diff --git a/README.md b/README.md
@@ -422,7 +422,7 @@ A fold with nothing in it writes a file with the header alone, so a script can r
 
 The profile goes when another table is loaded; measured under other null tokens or another *Trim whitespace* setting than the page's (both set under *How values are read* on the Compare page, and they apply here too), it says so (*This profile is from earlier settings - run it again to refresh*). Compare is untouched: switch back and the sides, the column table, the result and the Log are where they were.
 
-![The Profiling page: the done disc, the File section, the statistics table, the save row and the first value-frequency folds](docs/app-profiling.png)
+![The Profiling page: the done disc naming the key, the File section, the headline, the Keys block with its candidate table, and What stands out](docs/app-profiling.png)
 
 ## The report
 
